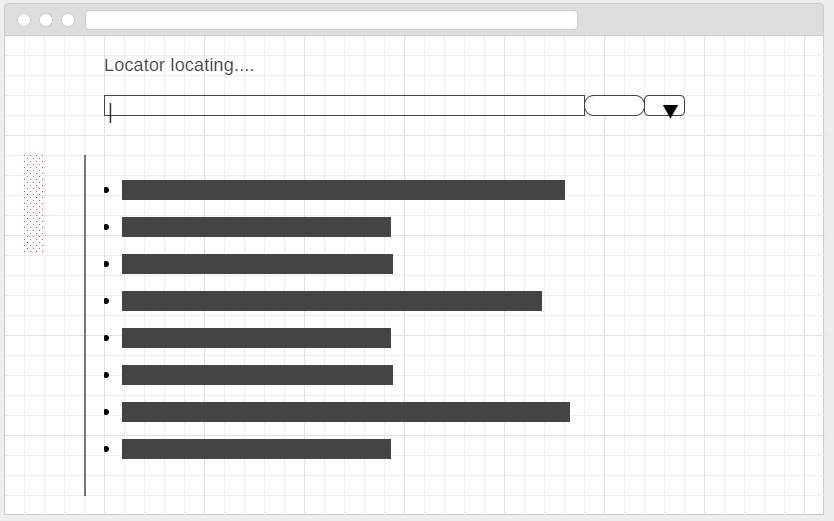
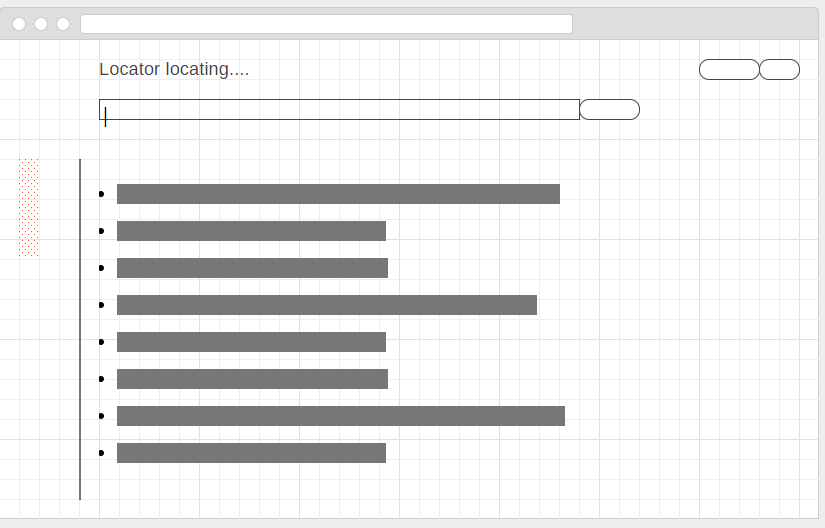
updated form for create new item button

diff --git a/design.md b/design.md
@@ -27,5 +27,11 @@
 
 ### new event form
 ![main](imgs/new_event.png "login")
+[source](https://wireframe.cc/nOFTKC)
 
-* Note: the where will be a populated drop down menu (they didn't have a good one on the wireframe site)
+
+* The where will be a populated drop down menu (they didn't have a good one on the wireframe site)
+* group will be maintained in the database? 
+  * alternately should we create a "profile" page to set user details and maintain them?
+  
+  
